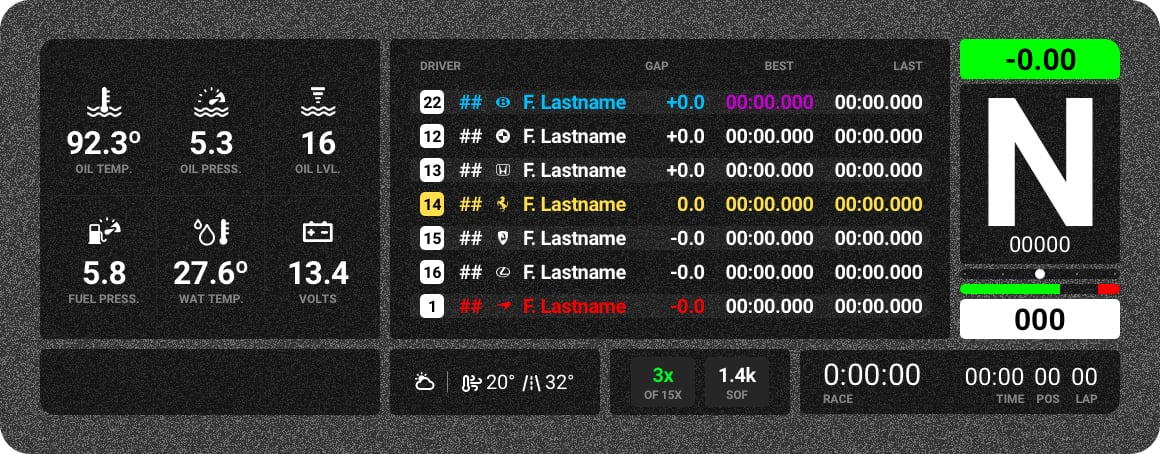
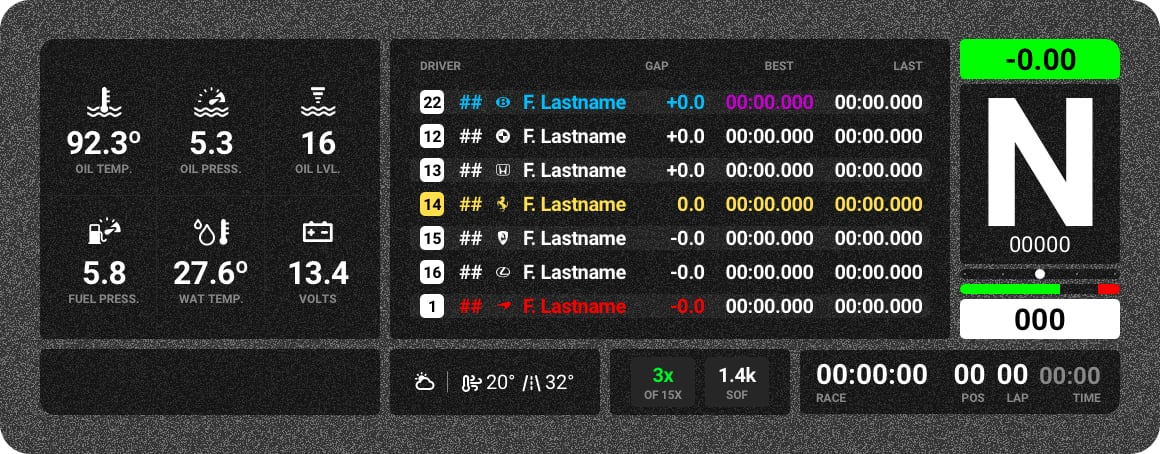
Documentation

Changed region(s): [[0.6828, 0.8018, 0.9621, 0.8943]]

diff --git a/README.md b/README.md
@@ -11,7 +11,7 @@ A multifunctional feature packed SimHub Dashboard (DDU) and a matching Stream Ov
 <br/>
 
 <div align="center">
-<p><strong><em>NEW v1.5.0:</em> Now with iRacing support!</strong><br/>
+<p><strong><em>NEW v1.5:</em> Now with iRacing support!</strong><br/>
 New version brings support for the most popular sim racing software on the market and a bunch of new features.</p>
  
 <p><strong><em>NEW Discord Server</em></strong><br/>

diff --git a/iRacing/features-iracing.md b/iRacing/features-iracing.md
@@ -21,7 +21,7 @@ This special Alert box shows up only in **Qualifying** and **Practice** sessions
 ### Timetables
 [![Timetables](../images/AlternateTimetables-iRacing.jpg)](timetables-iracing.md)
 
-🖥 **[Timetables Screen Features](timetables-iracing.md)**
+🖥 **[Timetables Screen Features](timetables-iracing.md)** 
 
 
 ### Track Map

diff --git a/acc/primary-acc.md b/acc/primary-acc.md
@@ -18,9 +18,9 @@
 ### Top Right Module
 1. Time Remaining
 2. Session Type
-3. Track Time
 3. Current Position
 4. Current Lap Number
+5. Track Time
 
 ### Center Module
 1. Live Lap Time Diff to your Session Best

diff --git a/iRacing/primary-iracing.md b/iRacing/primary-iracing.md
@@ -18,9 +18,9 @@
 ### Top Right Module
 1. Time Remaining
 2. Session Type
-3. Track Time
 3. Current Position
 4. Current Lap Number
+5. Track Time
 
 ### Center Module
 1. Live Lap Time Diff to your Session Best

diff --git a/acc/overlay-acc.md b/acc/overlay-acc.md
@@ -35,3 +35,4 @@
 2. Session Type
 3. Current Position
 4. Current Lap Number
+5. Track Time

diff --git a/iRacing/overlay-iracing.md b/iRacing/overlay-iracing.md
@@ -39,3 +39,4 @@
 2. Session Type
 3. Current Position
 4. Current Lap Number
+5. Track Time
